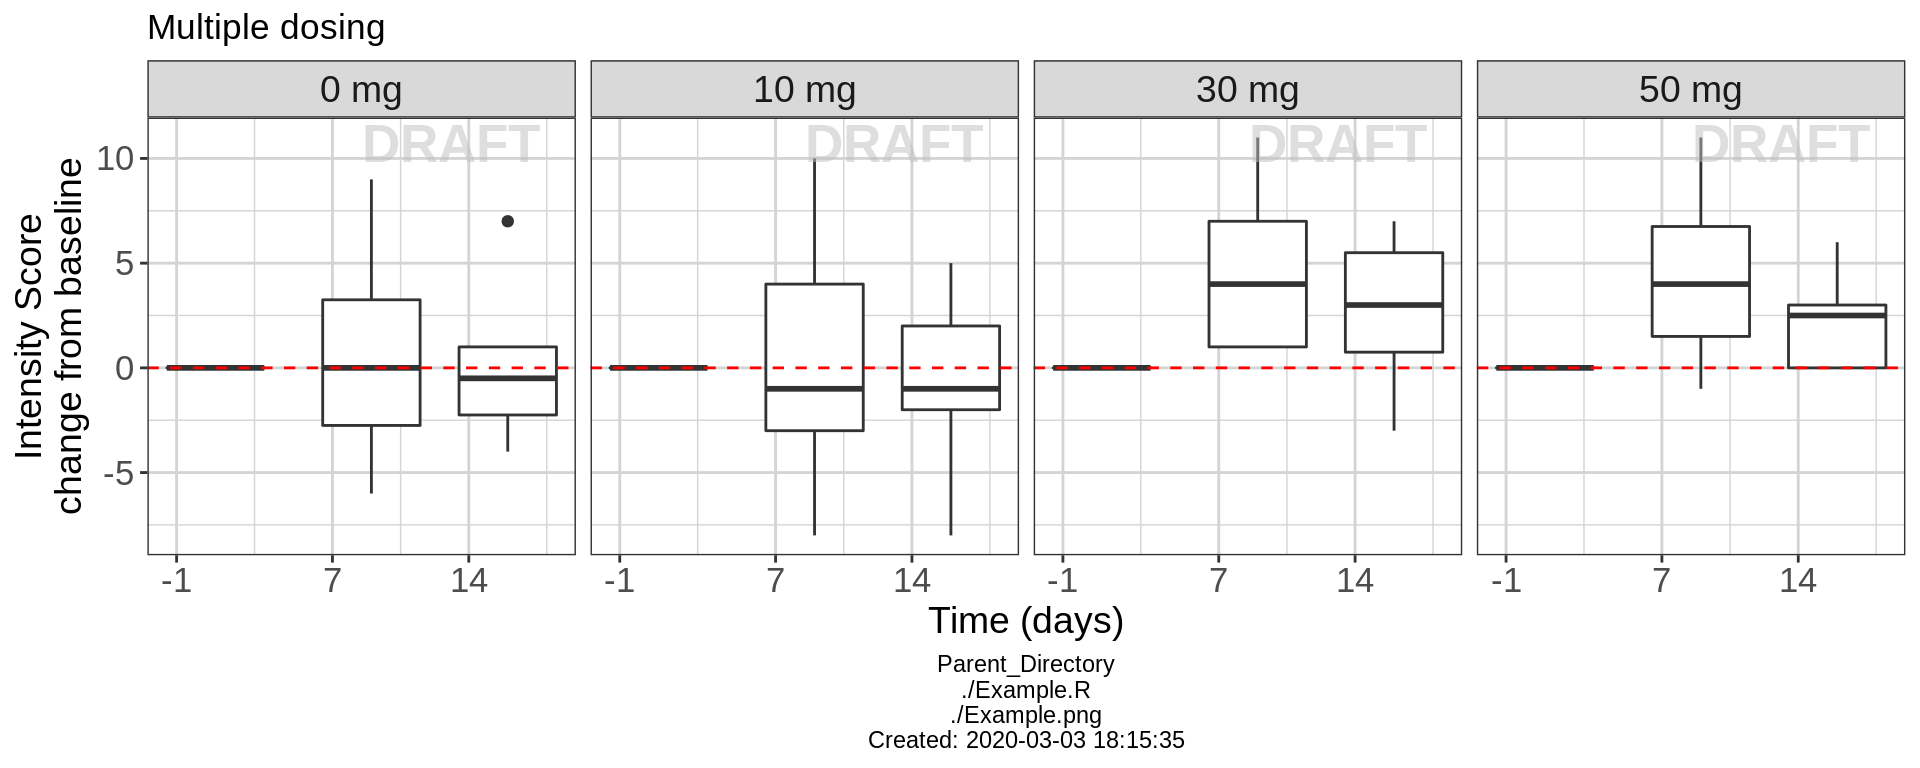
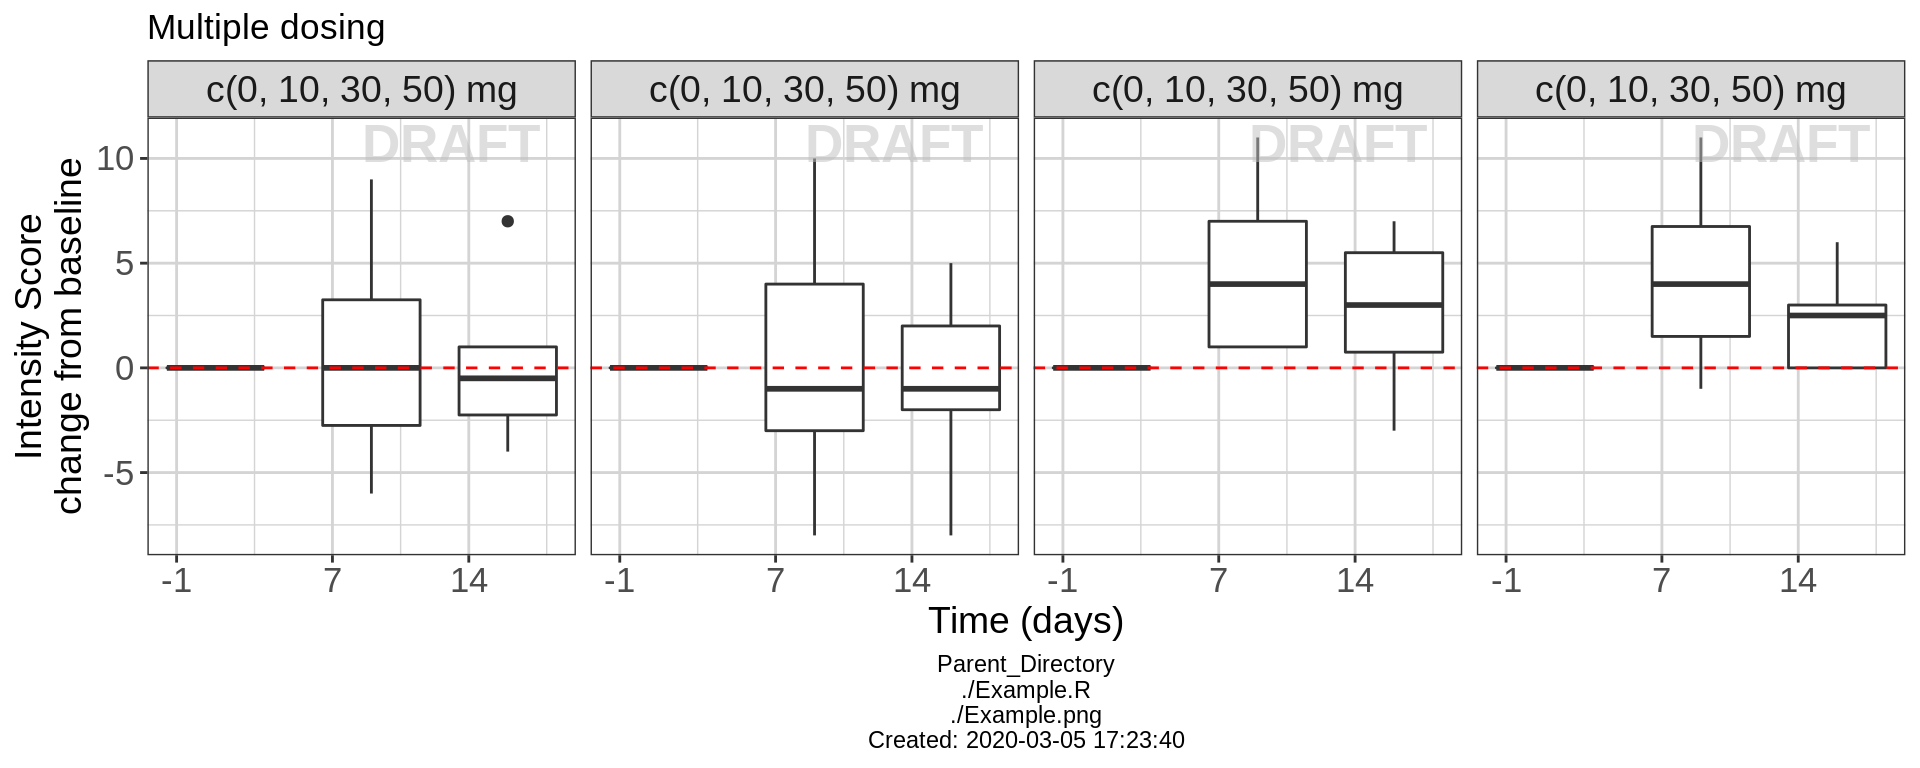
remove empty facet

diff --git a/Rmarkdown/www/Multiple_Ascending_Dose_PD_real_example.html b/Rmarkdown/www/Multiple_Ascending_Dose_PD_real_example.html
@@ -607,17 +607,17 @@ xgx_theme_set()</code></pre>
 
 #ensure dataset has all the necessary columns
   pkpd_data = pkpd_data %&gt;%
-    mutate(ID      = ID,     #ID   column
-           TIME    = TIM2,   #TIME column name, time from first dose administration 
-           NOMTIME = NTIM, #NOMINAL TIME column name
-           PROFDAY = 1 + floor(NOMTIME / 24), #PROFILE DAY day associated with profile, e.g. day of dose administration
-           PROFTIME = NOMTIME - (PROFDAY - 1)*24, #PROFILE TIME, time associated with profile, e.g. hours post dose
-           EVID    = EVID   , #EVENT ID, &gt; = 1 is dose, otherwise measurement
-           LIDV    = LIDV,   #DEPENDENT VARIABLE column name
-           CENS    = CENS,   #CENSORING column name
-           CMT     = CMT,    #COMPARTMENT column
-           DOSE    = RNDDOSE,   #DOSE column here (numeric value)
-           TRTACT  = TRTTXT, #DOSE REGIMEN column here (character, with units), 
+    mutate(ID        = ID,     #ID   column
+           TIME      = TIM2,   #TIME column name, time from first dose administration 
+           NOMTIME   = NTIM, #NOMINAL TIME column name
+           PROFDAY   = 1 + floor(NOMTIME / 24), #PROFILE DAY day associated with profile, e.g. day of dose administration
+           PROFTIME  = NOMTIME - (PROFDAY - 1)*24, #PROFILE TIME, time associated with profile, e.g. hours post dose
+           EVID      = EVID   , #EVENT ID, &gt; = 1 is dose, otherwise measurement
+           LIDV      = LIDV,   #DEPENDENT VARIABLE column name
+           CENS      = CENS,   #CENSORING column name
+           CMT       = CMT,    #COMPARTMENT column
+           DOSE      = RNDDOSE,   #DOSE column here (numeric value)
+           TRTACT    = TRTTXT, #DOSE REGIMEN column here (character, with units), 
            LIDV_NORM = LIDV/DOSE, 
            LIDV_UNIT = UNIT, 
            DAY_label = paste(&quot;Day&quot;, PROFDAY)
@@ -675,26 +675,23 @@ dirs = list(
 <div id="intensity-score-over-time-faceting-by-dose" class="section level4">
 <h4>Intensity Score over Time, Faceting by Dose</h4>
 <p>Lets get an overview of the change from baseline intensity score over time following multiple dosing. Plotting boxplots of the Change from Baseline Intensity score over time, grouped by different treatments, we can begin to see the behavior of the drug over time and by treatment. Looking at the Placebo and 30 mg dose groups, the change from baseline intensity score does not appear to be different from zero on days 7 or 14. However, with the 30 mg and 50 mg treatment groups, change from baseline intensity score is clearly greater than zero for days 7 and 14. Drug ABC123 appears to start working for 30 mg doses and higher.</p>
-<pre class="r"><code>labelFun &lt;- function(variable,value){     
-  paste0(value,&quot; mg&quot;)                             
+<pre class="r"><code>labelFun &lt;- function(labels){     
+  paste0(labels,&quot; mg&quot;)                             
 }
-
-ytitle &lt;- ylab(paste0(pd_label,&quot;\nchange from baseline&quot;))
-xtitle &lt;- xlab(&quot;Time (days)&quot;)
 
 gg &lt;- ggplot(pd_multiple_dosing, 
                 aes(y = CHG, x = PROFDAY, group = NOMTIME)) 
 gg &lt;- gg + geom_boxplot(width = 5)  
 gg &lt;- gg + ggtitle(&quot;Multiple dosing&quot;)  
-gg &lt;- gg + ytitle  
-gg &lt;- gg + xtitle  
 gg &lt;- gg + geom_hline(yintercept = 0,
-             color = &quot;red&quot;,linetype = &quot;dashed&quot;)  
-gg &lt;- gg +  scale_x_continuous(breaks = c(-1,7,14))  
-gg &lt;- gg +  theme(axis.text = element_text(size = 13), 
+                      color = &quot;red&quot;, linetype = &quot;dashed&quot;)  
+gg &lt;- gg + scale_x_continuous(breaks = c(-1,7,14))  
+gg &lt;- gg + theme(axis.text = element_text(size = 13), 
         axis.title = element_text(size = 14), 
-        strip.text = element_text(size = 14))  
-gg &lt;- gg +  facet_wrap(~DOSE,nrow = 1, label = labelFun)
+        strip.text = element_text(size = 14)) 
+gg &lt;- gg + ylab(paste0(pd_label,&quot;\nchange from baseline&quot;))
+gg &lt;- gg + xlab(&quot;Time (days)&quot;)
+gg &lt;- gg + facet_wrap(~DOSE,nrow = 1, label = labelFun)
 gg &lt;- gg + xgx_annotate_status()
 gg &lt;- gg + xgx_annotate_filenames(dirs)
 
@@ -704,26 +701,24 @@ gg</code></pre>
 </div>
 <div id="dose-response" class="section level3">
 <h3>Dose Response</h3>
-<div id="intensity-score-vs-dose-faceting-by-time" class="section level4">
-<h4>Intensity Score vs Dose, Faceting by Time</h4>
+<div id="intensity-score-vs-dose" class="section level4">
+<h4>Intensity Score vs Dose</h4>
 <p>For this fast acting drug, an effect in change from baseline intensity score can actually be seen within the first 24 hours. In order to get an idea of the dose response relationship and make sure we are targeting an optimal dose, take a look at the response for a range of doses that were studied in the single ascending dose study. Plotting boxplots of the change from baseline intensity score against dose, you can see that starting at 10 mg, drug ABC123 has a clear effect on intensity score.</p>
-<pre class="r"><code>labelFun &lt;- function(variable,value){     
-  paste0(value,&quot; h&quot;)                             
+<pre class="r"><code>labelFun &lt;- function(labels){     
+  paste0(labels,&quot; h&quot;)                             
 }
 
-ytitle &lt;- ylab(paste0(pd_label,&quot;\nchange from baseline&quot;))
-xtitle &lt;- xlab(&quot;Dose (mg)&quot;)
-
-gg &lt;- ggplot(pd_single_dosing, 
-                aes(y = CHG, x = factor(DOSE), group = NOMTIME))  
+gg &lt;- ggplot(pd_single_dosing %&gt;% subset(NOMTIME == 24), 
+                aes(y = CHG, x = factor(DOSE)))  
 gg &lt;- gg + geom_boxplot(aes(group = factor(DOSE)))  
 gg &lt;- gg + ggtitle(&quot;Single dosing&quot;)   
-gg &lt;- gg + ytitle + xtitle   
 gg &lt;- gg + geom_hline(yintercept = 0,
              color = &quot;red&quot;,linetype = &quot;dashed&quot;)   
-gg &lt;- gg + theme(axis.text = element_text(size = 13),
-        axis.title = element_text(size = 14),
-        strip.text = element_text(size = 14))   
+gg &lt;- gg + theme(axis.text  = element_text(size = 13),
+                 axis.title = element_text(size = 14),
+                 strip.text = element_text(size = 14))
+gg &lt;- gg + ylab(paste0(pd_label,&quot;\nchange from baseline&quot;))
+gg &lt;- gg + xlab(dose_label)   
 gg &lt;- gg + facet_wrap(~NOMTIME, nrow = 1, label = labelFun)
 gg &lt;- gg + xgx_annotate_status()
 gg &lt;- gg + xgx_annotate_filenames(dirs)
@@ -731,8 +726,8 @@ gg &lt;- gg + xgx_annotate_filenames(dirs)
 gg</code></pre>
 <p><img src="Multiple_Ascending_Dose_PD_real_example_files/figure-html/unnamed-chunk-4-1.png" width="960" /></p>
 <p>In the plot above, the doses are uniformly spaced, not proportionally spaced according to the numerical value of the doses. Producing this type of plot allows to clearly determine distinctions between different dose groups. However, it is wise to produce plots of dose vs response with dose on a scale proportional to the numerical value of the doses. This allows to more clearly see the shape of the dose-response relationship. Drug ABC123 has a nice dose-response curve shape that resembles a typical Emax model, appearing to plateau around 7.5 change from baseline in intensity score.</p>
-<pre class="r"><code>labelFun &lt;- function(variable,value){     
-  paste0(value,&quot; h&quot;)                             
+<pre class="r"><code>labelFun &lt;- function(labels){     
+  paste0(labels,&quot; h&quot;)                             
 }
 
 gg &lt;- ggplot(pd_single_dosing %&gt;% subset(NOMTIME == 24,), 
@@ -740,13 +735,14 @@ gg &lt;- ggplot(pd_single_dosing %&gt;% subset(NOMTIME == 24,),
 gg &lt;- gg + xgx_stat_ci(conf_level = 0.975, 
                        geom = c(&quot;point&quot;, &quot;errorbar&quot;), 
                        alpha = 0.5)   
-gg &lt;- gg +  ggtitle(&quot;Single dosing&quot;)   
-gg &lt;- gg +  ytitle +  xtitle   
-gg &lt;- gg +  geom_hline(yintercept = 0, color = &quot;red&quot;, linetype = &quot;dashed&quot;)  
-gg &lt;- gg +  theme(axis.text = element_text(size = 13),
-        axis.title = element_text(size = 14),
-        strip.text = element_text(size = 14))  
-gg &lt;- gg +  facet_wrap(~NOMTIME, nrow = 1, label = labelFun)
+gg &lt;- gg + geom_hline(yintercept = 0, color = &quot;red&quot;, linetype = &quot;dashed&quot;)  
+gg &lt;- gg + theme(axis.text  = element_text(size = 13),
+                  axis.title = element_text(size = 14),
+                  strip.text = element_text(size = 14))  
+gg &lt;- gg + ggtitle(&quot;Single dosing&quot;)   
+gg &lt;- gg + ylab(paste0(pd_label,&quot;\nchange from baseline&quot;))
+gg &lt;- gg + xlab(dose_label)
+gg &lt;- gg + facet_wrap(~NOMTIME, nrow = 1, label = labelFun)
 gg &lt;- gg + xgx_annotate_status()
 gg &lt;- gg + xgx_annotate_filenames(dirs)
 
